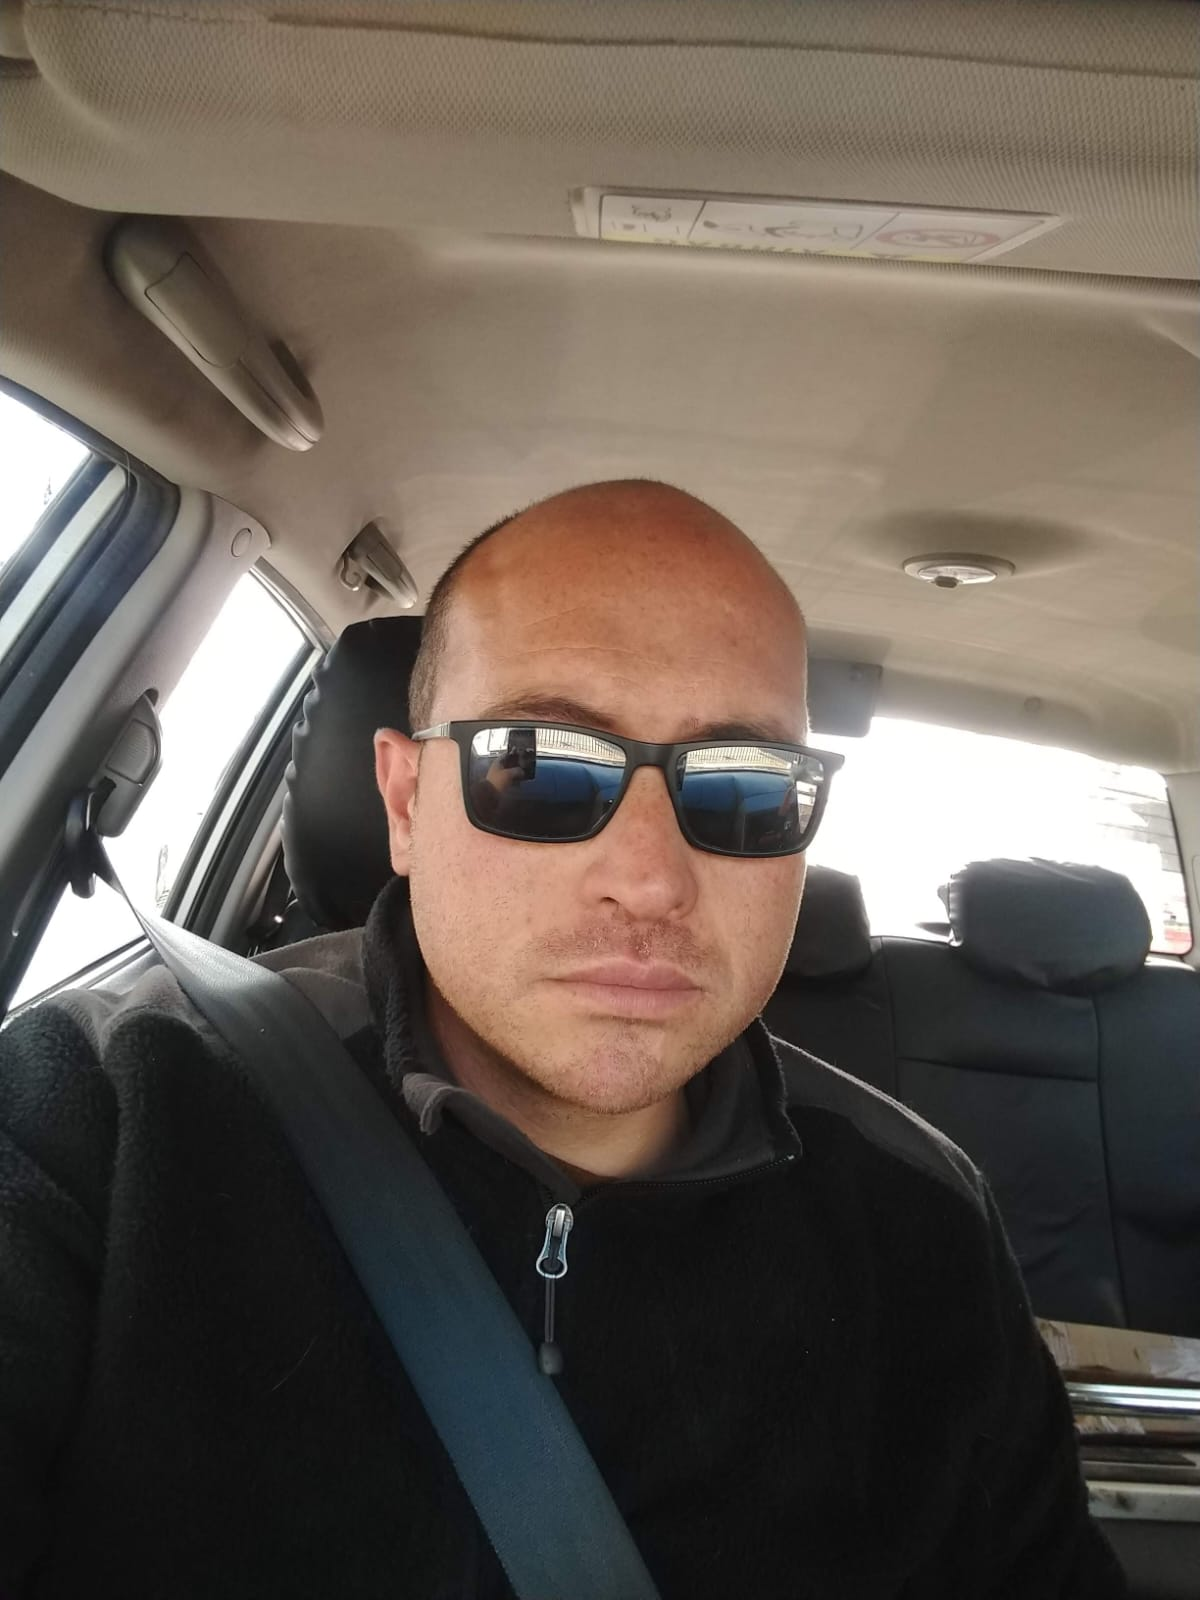
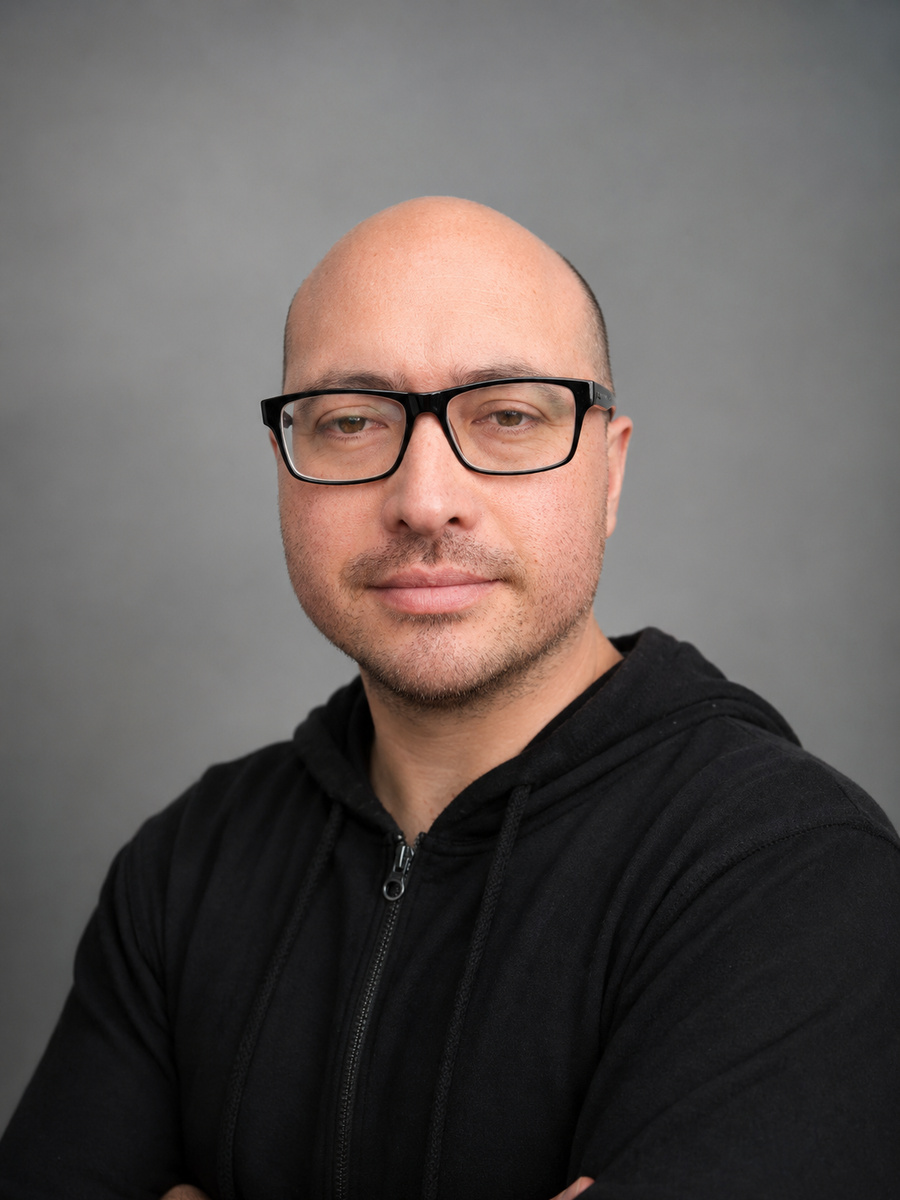
feat: foto de perfil profesional + vista previa social

diff --git a/index.html b/index.html
@@ -5,6 +5,15 @@
 <meta name="viewport" content="width=device-width, initial-scale=1">
 <title>Daniel Droguett · Data Scientist</title>
 <meta name="description" content="Daniel Droguett — Data Scientist. Plataformas de datos, dashboards y agentes de IA en producción. Chillán, Chile.">
+<meta property="og:type" content="website">
+<meta property="og:url" content="https://daniel-droguett-ds.vercel.app/">
+<meta property="og:title" content="Daniel Droguett — Data Scientist">
+<meta property="og:description" content="Plataformas de datos de extremo a extremo: ERP → PostgreSQL, KPIs y tableros en producción, y agentes de IA. Demos en vivo y código público.">
+<meta property="og:image" content="https://daniel-droguett-ds.vercel.app/og_preview.png">
+<meta property="og:image:width" content="1200">
+<meta property="og:image:height" content="630">
+<meta name="twitter:card" content="summary_large_image">
+<meta name="twitter:image" content="https://daniel-droguett-ds.vercel.app/og_preview.png">
 <style>
   :root{
     --bg:#0d1117; --panel:#161b22; --panel2:#1c222b; --line:#272e38;